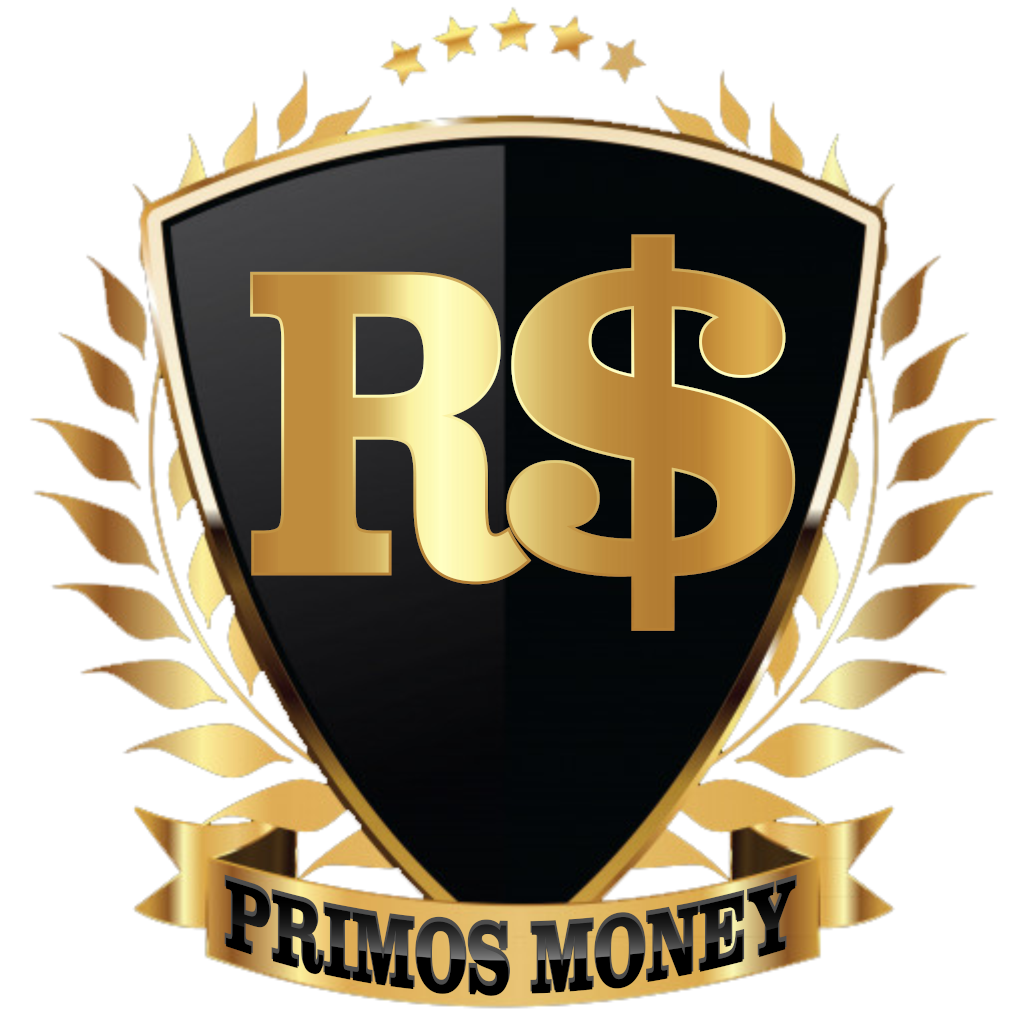
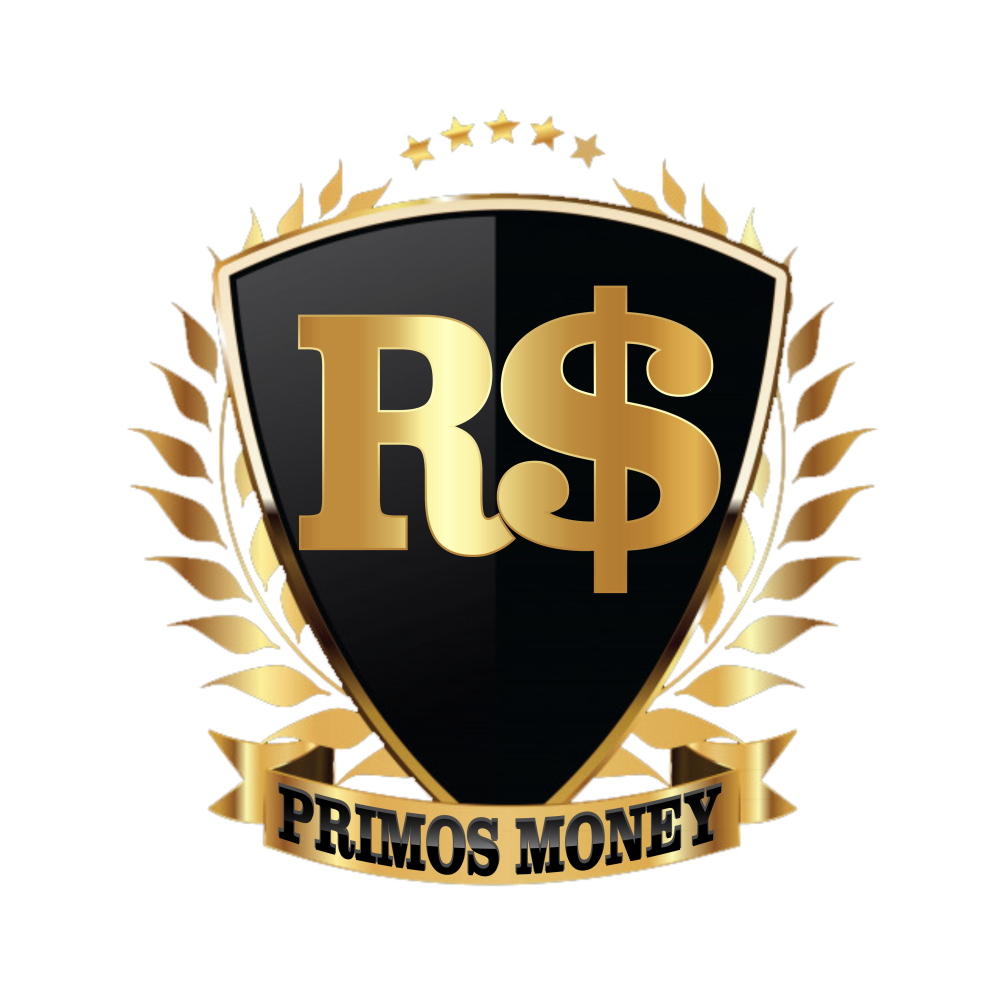
asdf

diff --git a/screens/HomeClientScreen.tsx b/screens/HomeClientScreen.tsx
@@ -4,16 +4,23 @@ import { StyleSheet } from 'react-native';
 import { Erro, Text, View, TouchableOpacity, Image, ScrollView, ActivityIndicator } from '../components/Themed';
 import { Background } from '../components/Background';
 
-import { MaskService } from 'react-native-masked-text'
+import { MaskService } from 'react-native-masked-text';
+
+import AuthContext from '../contexts/authenticate';
+import { getUser } from '../services/api';
 
 type InputValue = {
     value: string
 }
 const HomeClientScreen: React.FC = ({ navigation }) => {
+    const { user } = useContext(AuthContext);
 
     const [loading, setLoading] = useState(false);
     const [erro, setErro] = useState('');
 
+    async function handleGetUser() {
+        const response = await getUser(user, user.user.id);
+    };
     function cnpjMask(value: InputValue) {
         return (MaskService.toMask('cnpj', value.value));
     };
@@ -30,23 +37,23 @@ const HomeClientScreen: React.FC = ({ navigation }) => {
     function getUnMaskedText(value: InputValue) {
         return value.value.replace(/[^\d]+/g, '');
     };
-    
+
     return (
         <Background>
             <View style={styles.logo}>
-                <Image source={require('../assets/images/adaptive-icon.png')} />
+                <Image source={require('../assets/images/logo.png')} />
             </View>
             <View style={styles.container_erro}>
                 <Erro style={styles.erro}>{erro}</Erro>
             </View>
             <ScrollView style={styles.container}>
-                
+
             </ScrollView>
             <View style={styles.separator} />
             <View style={styles.create}>
-                <TouchableOpacity>
+                <TouchableOpacity onPress={handleGetUser}>
                     <Text>
-                        Teste
+                        {user.user ? user.user.name : <ActivityIndicator size="small" color='#ffe002' /> }
                     </Text>
                 </TouchableOpacity>
             </View>
@@ -57,7 +64,7 @@ const HomeClientScreen: React.FC = ({ navigation }) => {
 const styles = StyleSheet.create({
     container: {
         borderRadius: 5,
-        padding: 20,
+        padding: 3,
         width: '100%',
         elevation: 5,
         shadowColor: '#161415',

diff --git a/services/api.tsx b/services/api.tsx
@@ -1,0 +1,41 @@
+import axios, { AxiosResponse } from 'axios';
+
+export type UserAuthData = {
+    token: string;
+    refreshToken: string;
+    id: string;
+};
+
+
+const client = axios.create({
+    baseURL: 'https://primosmoney.online:8080',
+    headers: {
+        "content-type": "application/json",
+        "Accept": "application/json",
+    },
+});
+
+const setAuthorization = (token:string) => {
+    client.defaults.headers['x-access-token'] = token;
+};
+
+
+export function getUser(user: UserAuthData, uuid:string): Promise<Response> {
+    return new Promise((resolve, reject) => {
+        setAuthorization(user.token);
+        client.get('/api/user/', {
+            params: {
+                uuid:uuid
+            }
+        })
+            .then((response: AxiosResponse) => {
+                return response.data;
+            })
+            .then((data: Response) => {
+                resolve(data);
+            })
+            .catch((err: any) => {
+                resolve(err);
+            });
+    });
+};

diff --git a/contexts/authenticate.tsx b/contexts/authenticate.tsx
@@ -87,8 +87,21 @@ export const AuthProvider: React.FC = ({ children }) => {
         }
         return response;
     }
+
+    async function getUser() {
+        const storagedUser = await getValueFor('user_id');
+        const storagedName = await getValueFor('user_name');
+        const storagedToken = await getValueFor('user_token');
+        return ({
+            token: storagedToken,
+            user: {
+                name: storagedName,
+                id: storagedUser
+            }
+        })
+    }
     return (
-        <AuthContext.Provider value={{ signed, user, signIn, register }}>
+        <AuthContext.Provider value={{ signed, user, getUser, signIn, register }}>
             {children}
         </AuthContext.Provider>
     )

diff --git a/navigation/BottomTabNavigator.tsx b/navigation/BottomTabNavigator.tsx
@@ -28,7 +28,16 @@ export default function BottomTabNavigator() {
   return (
     <BottomTab.Navigator
       initialRouteName="HomeClient"
-      tabBarOptions={{ activeTintColor: Colors[colorScheme].tint }}>
+      tabBarOptions={{
+        activeTintColor: Colors[colorScheme].tint, showLabel: false,
+        style: {
+          backgroundColor: "#161415",
+          borderTopWidth: 0,
+          elevation: 0,
+          height: 55,
+          paddingBottom: 5
+        }
+      }}>
       <BottomTab.Screen
         name="HomeClient"
         component={HomeClientScreen}

diff --git a/screens/ForgoutPasswordScreen.tsx b/screens/ForgoutPasswordScreen.tsx
@@ -29,7 +29,7 @@ const ForgoutPasswordScreen: React.FC = ({ navigation }) => {
     return (
         <Background>
             <View style={styles.logo}>
-                <Image source={require('../assets/images/adaptive-icon.png')} />
+                <Image source={require('../assets/images/logo.png')} />
             </View>
             <View style={styles.container}>
                 <Text style={styles.title}>Recuperar senha</Text>

diff --git a/screens/Register.tsx b/screens/Register.tsx
@@ -115,7 +115,7 @@ const RegisterScreen: React.FC = ({ navigation }) => {
     return (
         <Background>
             <View style={styles.logo}>
-                <Image source={require('../assets/images/adaptive-icon.png')} />
+                <Image source={require('../assets/images/logo.png')} />
             </View>
             <View style={styles.container_erro}>
                 <Erro style={styles.erro}>{erro}</Erro>

diff --git a/screens/Login.tsx b/screens/Login.tsx
@@ -42,7 +42,7 @@ const LoginScreen: React.FC = ({ navigation }) => {
     return (
         <Background>
             <View style={styles.logo}>
-                <Image source={require('../assets/images/adaptive-icon.png')} />
+                <Image source={require('../assets/images/logo.png')} />
             </View>
             <View style={styles.container_erro}>
                 <Erro style={styles.erro}>{erro}</Erro>
